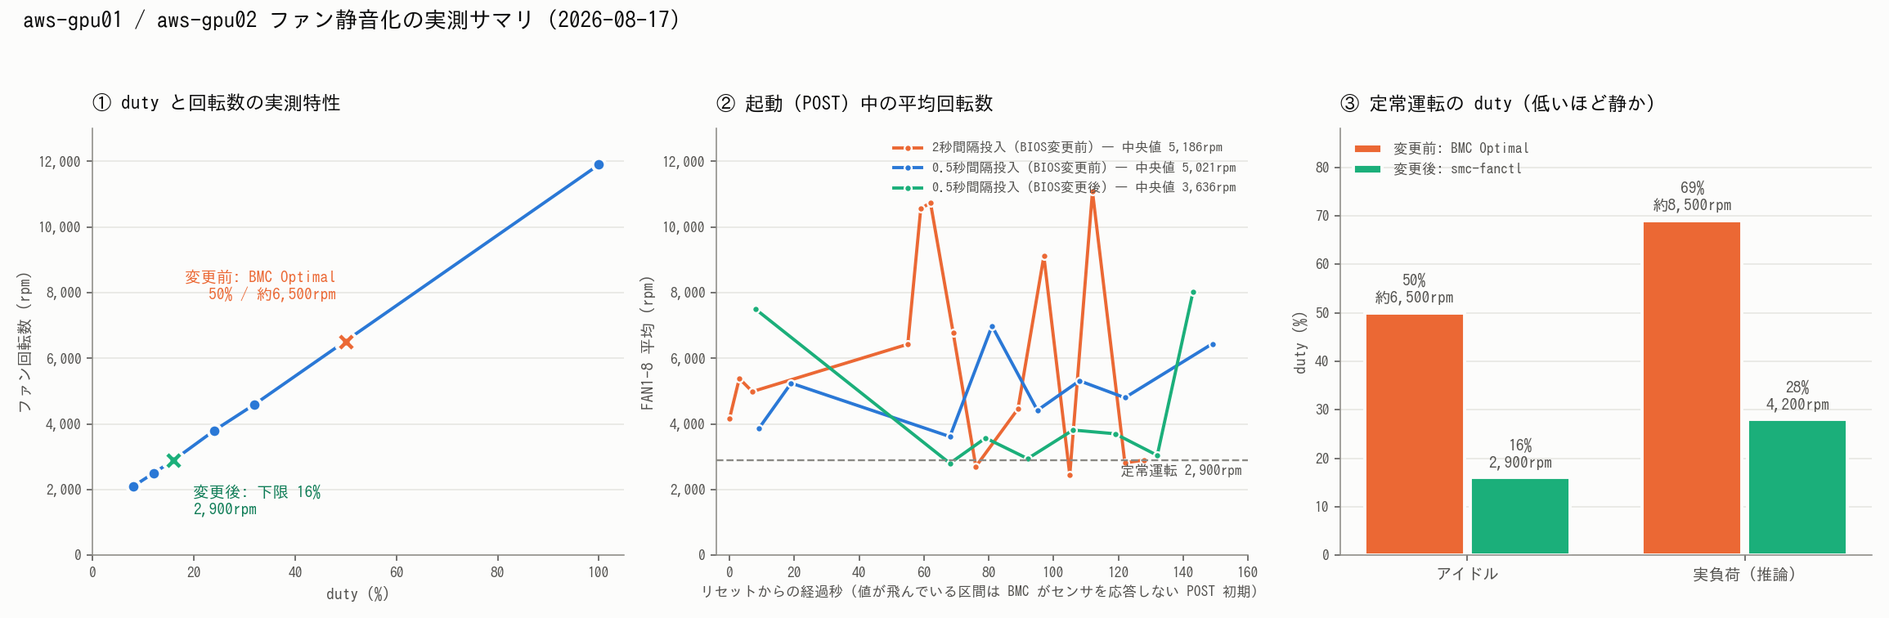
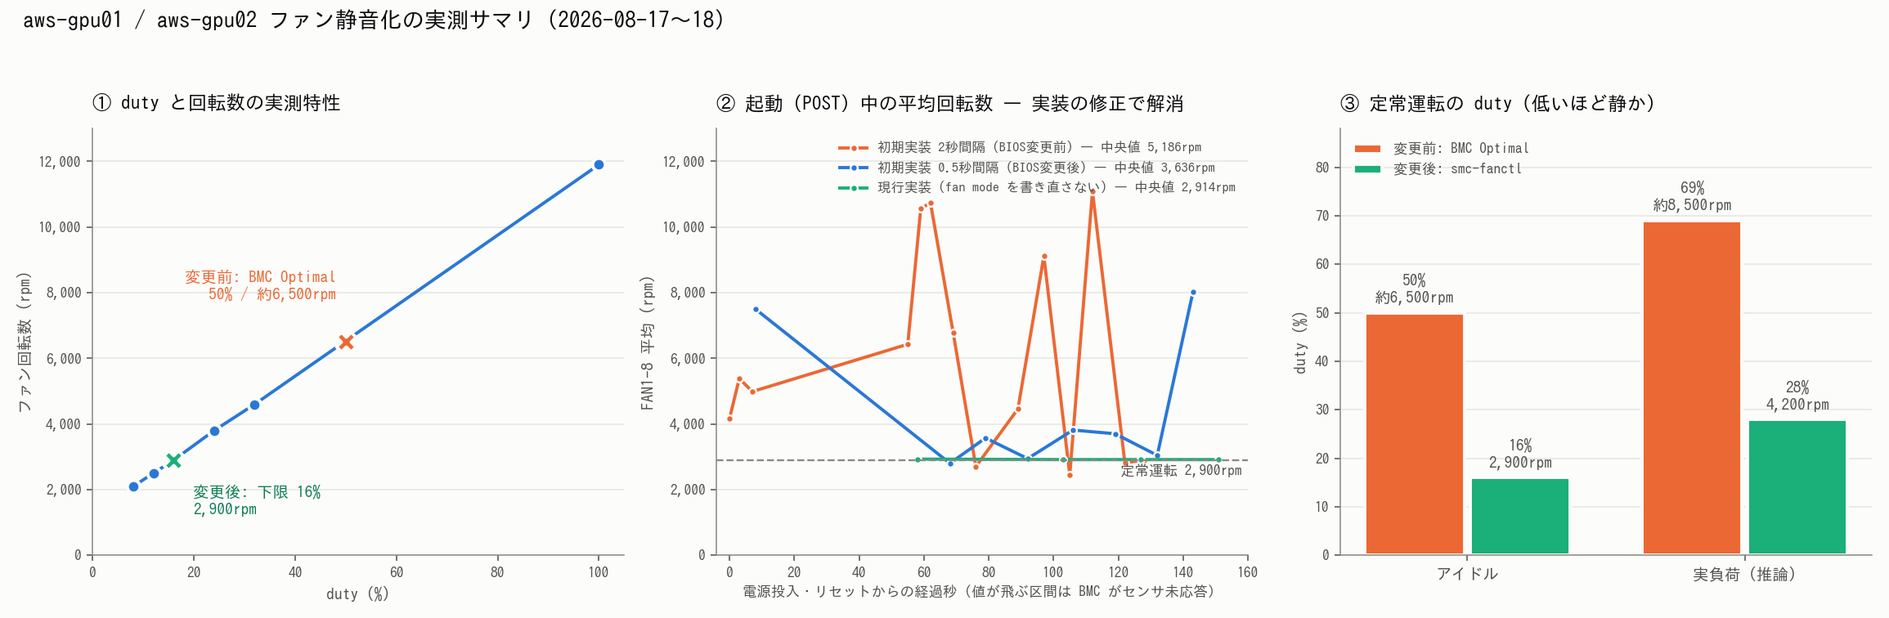
fix(report): 起動中の抑制は「競り負ける」ではなく実装の誤りだったと訂正
ユーザ立ち会いで両機を ACPI シャットダウン → 電源投入し、修正後の
boot-quiet で起動中の回転を測り直した（2026-08-18 17:23〜17:30）。

結果: POST 中 FAN1-8 平均の中央値は gpu01 2,925rpm / gpu02 2,914rpm。
定常運転と同値で、起動時の爆音は事実上解消した。
ユーザ体感も「数秒だけ唸るが、だいぶ抑制できている」。

これに伴い当初の結論を訂正する:
- 誤: POST 中は BMC がファン制御を手放さないので外部の duty 投入は競り負ける
- 正: BMC は POST 中も duty 指定を受け付ける。fan mode を書き直すと全 zone が
      100% にリセットされるため、毎周期 mode を書いていた初期実装が自ら
      爆音を誘発していた

あわせて記録:
- コールドブートの所要時間 (on 発行起点): gpu01 は OS 起動まで 150 秒 /
  smc-fanctl 稼働まで 160 秒、gpu02 は 85 秒 / 108 秒。gpu02 が短いのは
  スロット OPROM が Disabled だから…と考えられるが、GPU 枚数と RAM 量の差も
  混ざるため OPROM 単独の寄与は未分離
- 100GbE の netplan 永続化が 2 度目の再起動でも機能することを確認
- 残課題の 2 件 (修正後 boot-quiet の測定 / POST 時間) を解決済みに更新
- タイトルを「起動時も含め 6,500→2,900rpm」に変更、PNG に現行実装の系列を追加
- CLAUDE.md / aws-gpu.md / INDEX も最終結果へ追随

ガードは維持する（抑制が働かない状況では従来どおり全開になるため）。

diff --git a/report/attachment/2026-08-17_234403_aws_gpu_fan_noise_reduction/make_summary_png.py b/report/attachment/2026-08-17_234403_aws_gpu_fan_noise_reduction/make_summary_png.py
@@ -74,9 +74,9 @@ ax.set_ylim(0, 13000)
 ax = axes[1]
 XMAX = 160  # OS 起動後（smc-fanctl が引き継いだ後）は比較対象外なので切る
 series = [
-    ("boot_gpu02_suppress.csv", "2秒間隔投入 (BIOS変更前)", ORANGE),
-    ("boot_gpu02_fast.csv", "0.5秒間隔投入 (BIOS変更前)", BLUE),
-    ("boot_gpu02_after_bios.csv", "0.5秒間隔投入 (BIOS変更後)", AQUA),
+    ("boot_gpu02_suppress.csv", "初期実装 2秒間隔 (BIOS変更前)", ORANGE),
+    ("boot_gpu02_after_bios.csv", "初期実装 0.5秒間隔 (BIOS変更後)", BLUE),
+    ("boot_gpu02_final.csv", "現行実装 (fan mode を書き直さない)", AQUA),
 ]
 for path, label, color in series:
     xs, ys = load_boot(path)
@@ -88,9 +88,9 @@ for path, label, color in series:
             label=f"{label} — 中央値 {med:,.0f}rpm")
 ax.axhline(2900, color=MUTED, linewidth=1.2, linestyle="--")
 ax.annotate("定常運転 2,900rpm", (XMAX - 2, 2400), fontsize=9, color=INK2, ha="right")
-ax.set_title("② 起動 (POST) 中の平均回転数", color=INK, fontsize=12,
+ax.set_title("② 起動 (POST) 中の平均回転数 — 実装の修正で解消", color=INK, fontsize=12,
              fontweight="bold", loc="left", pad=12)
-ax.set_xlabel("リセットからの経過秒（値が飛んでいる区間は BMC がセンサを応答しない POST 初期）",
+ax.set_xlabel("電源投入・リセットからの経過秒（値が飛ぶ区間は BMC がセンサ未応答）",
               color=INK2, fontsize=9)
 ax.set_ylabel("FAN1-8 平均 (rpm)", color=INK2, fontsize=10)
 ax.set_xlim(-4, XMAX)
@@ -126,7 +126,7 @@ leg = ax.legend(frameon=False, fontsize=9, loc="upper left")
 for t in leg.get_texts():
     t.set_color(INK2)
 
-fig.suptitle("aws-gpu01 / aws-gpu02 ファン静音化の実測サマリ (2026-08-17)",
+fig.suptitle("aws-gpu01 / aws-gpu02 ファン静音化の実測サマリ (2026-08-17〜18)",
              color=INK, fontsize=14, fontweight="bold", x=0.012, ha="left", y=0.985)
 fig.tight_layout(rect=(0, 0, 1, 0.94))
 out = f"{SCR}/summary.png"

diff --git a/report/INDEX.md b/report/INDEX.md
@@ -231,4 +231,4 @@
 - [x] [2026-08-16_151340_aws_gpu_server_onboarding.md](2026-08-16_151340_aws_gpu_server_onboarding.md) — 新規 GPU サーバ 2 台を管理対象へ追加。BMC/OS 実測で **aws-gpu01 = Supermicro SYS-4028GR-TRT2 (Tesla P100-PCIE 16GB×7 = 112GB / Xeon E5-2687W v4×2 / 157GiB RAM)**、**aws-gpu02 = SYS-4028GR-TRT (16GB×4 + 12GB×2 = 88GB / E5-2640 v4×2 / 94GiB)** と確定。**ユーザ指定の「起動時にファンが爆音」制約を `bmc-power.sh` / `power-ctl.sh` の `FAN_LOUD_SERVERS` ガード (exit 20、`ALLOW_FAN_NOISE=1` で解除) として実装**し、`reset`/`on`/`off`/`soft` が実際に拒否され電源状態・uptime が変化しない (副作用ゼロ) ことまで検証。**既存 3 台との最大の差はネットワーク** — WS と同一拠点で RTT 0.3ms / 約 100MB/s、かつ **HF 直ダウンロード 27〜37MB/s が WS 経由 18MB/s より速い**ため CLAUDE.md の「WS 経由取得」ルールの明示的例外とした。BMC は ASPEED FW 3.86 で **mi25 と違い Redfish も応答する**が運用は IPMI を正とし、KVM スクショは既存 `bmc-kvm.py` の 2D noVNC 経路がそのまま動作 (両機 1024x768 取得成功)。個体差として **aws-gpu01 は GPU0/GPU5 のみ ECC Disabled + PSU 故障 SEL 履歴 (2026-02-23)**、**aws-gpu02 は FAN7 が No Reading**、aws-gpu01 は他ユーザ 2 名との共用機。スコープは「登録＋疎通確認」で llama.cpp ビルド・llama-server 起動・ベンチは未実施 (起動パラメータ `-b 4096 -ub 4096` は t120h-p100 の実績値を踏襲した**未検証の推定値**、aws-gpu02 は VRAM 不均等のため tensor-split 流用不可)
 - [x] [2026-08-16_175749_deepseek_v4_rpc_dual_gpu_server.md](2026-08-16_175749_deepseek_v4_rpc_dual_gpu_server.md) — **aws-gpu01 + aws-gpu02 を llama.cpp の RPC バックエンドで束ね、1 台に収まらない `unsloth/DeepSeek-V4-Flash-0731-GGUF:UD-Q4_K_XL` (155,095,241,120 B = 144.4 GiB) を 13 GPU / 200 GiB に分散して起動**。両機を同一コミット `10bf611e5` (build 10451) で `-DGGML_RPC=ON` 付き再ビルドし、aws-gpu01 をメインホスト (モデル保持)、aws-gpu02 を `ggml-rpc-server` ワーカー (モデル不要) として 100GbE 直結 `192.168.100.1/2` で接続。**ctx=131072 で起動成功** (ロード 4分24秒、VRAM 実測 160,882 MiB = 157.1 GiB、最小空き 1,058 MiB は aws-gpu02 の 12GB カード)。**`--tensor-split` は不要** — 自動配分が VRAM 不均等 (16/16/16/12/16/12 GB) を適切に処理。性能は **pp 89.7 t/s @1,215tok / 81.7 t/s @19,015tok、tg 13.6 / 12.7 t/s** で、**19k トークンでも劣化は約 8%** (t120h-p100 の Qwen3.5-122B が 1k→96k で eval -46.3% だったのと対照的、DeepSeek Sparse Attention の効果)。ctx を 32k→128k にしても VRAM +2.4% / 速度差なし。**事前の最大懸念だった Pascal (sm_60) での新 op (`ggml_lightning_indexer` / `ggml_dsv4_hc_*`) の CPU フォールバックは発生せず** — `lightning-indexer.cu` が `turing_mma_available(cc)` で分岐し非 wmma 経路を持つため CUDA 上で動作 (推論中 load average 0.43)。**2 台間は llama.cpp 本体の RDMA トランスポート (上流 `adb541a6a` / PR #20590, 2026-04-15) が自動選択され RoCEv2 で通信** (`RDMA probed: dev=mlx5_0 gid=3` / `RDMA activated: mtu=4096`)、cmake が `libibverbs` を検出して有効化するためコマンドライン変更不要。**副次: aws-gpu01 の HF ダウンロードは実測 117 MB/s** (155GB を 22分12秒、登録時計測 27MB/s の 4 倍超)。リポジトリ変更として `update_and_build-aws-gpu0*.sh` に `-DGGML_RPC=ON` と `-n/--no-pull` を追加 (RPC はメイン/ワーカーのバージョン一致必須)、`rpc-up.sh` / `rpc-down.sh` を新設 (`0.0.0.0` バインドは拒否 — 公式が RPC を「認証なし・非セキュア」と明記)、SKILL.md に「RPC 分散構成」節・aws-gpu.md に「100GbE 直結リンク」節を追加。**作業上の失敗 3 件も記録**: (a) 同一サーバでビルド二重起動 → 後発の `rm -rf build` が先発を破壊、(b) **`ssh ... & disown` は非対話 bash で起動用シェルが終了せず SSH チャネルがハングする** (`disown` を外せば正常、実測比較表あり)、(c) 完了検出 grep に `abort` を入れたため `common_fit_params` の**警告**を失敗と誤判定し llama-server を二重起動しかけた (2分42秒で kill、稼働中インスタンスは無傷)。残課題は DSpark speculative decoding (draft 10.9GB、+約10GB VRAM)、`-ub` 引き上げ、`start.sh` への RPC 統合、128k 超の上限実測
 - [x] [2026-08-16_221024_deepseek_v4_abliterated_comparison.md](2026-08-16_221024_deepseek_v4_abliterated_comparison.md) — **同じ 13 GPU / 200 GiB の RPC 構成に `huihui-ai/Huihui-DeepSeek-V4-Flash-0731-abliterated-GGUF` の Q4_K (164,633,502,592 B = 153.3 GiB、単一ファイル) を載せ、非 abliterated (unsloth UD-Q4_K_XL 144.4 GiB) と速度・品質の両面で比較**。公平性のため**入れ替え前に同一手順でベースラインを取り直した**。**速度は pp −9.2% (83.45→75.74 t/s @1,187tok) / −7.9% (76.80→70.77 @19,030tok)、tg −2.5% / −3.6%** と低下したが、**abliteration は重みの「値」のみを書き換えテンソルの数・形状・型を変えないため原理的に速度へ影響しえない** — 実体は量子化レシピの差 (モデルが +6.1% 大きい、antirez レシピが head/compressor/indexer を F16 保持)。ただし**サイズ増だけでは説明の向きが合わない** — 帯域律速の tg が予測 −5.8% に対し実測 −2.5〜−3.6% と小さく、compute 律速の pp のほうが強く落ちており、attention 側 F16 保持が prefill に集中して効いた可能性が高い (機構は未検証)。**perplexity は 3.8652±0.0965 → 4.1093±0.1057 で +6.3%** と誤差幅を超えて悪化し、**ビット数を多く使っているのに精度が落ちている**点は示唆的だが、**量子化レシピが異なるため abliteration 由来と量子化由来は分離不能** (ユーザ合意済みの設計上の限界、分離には antirez の非 abliterated 同一レシピ Q4_K が必要)。**回答の正しさは劣化なし** — 計算問題 (双方 1925 個で正解)、コード実装、要約、**30〜40 字ちょうど 4 項目という厳密な書式制約**まで双方が遵守。一方**実用上の軽微な後退あり**: **thinking が全体で +22.6% 冗長化** (40,970→50,215 字、書式制約問題では 2.5 倍。ただし一様ではなく 12 応答中 3 応答は減少、ja1 は半分以下に短縮しつつ正解)、**code2 デバッグ問題で baseline は完答したが abliterated は 2,048 トークン内に本文へ到達できず** (ただし thinking を精査すると診断も修正方針も baseline と同一の正解に達しており、その後の反復ループで思考を切り上げられなかったのが実態 = 推論能力ではなく停止判断の失敗)、文章も単調化 (ja3 の 4 項目の書き出しが baseline 4/4 別表現に対し abliterated は 1/4)。**ctx=131072 のまま起動成功しフォールバック不要**だが VRAM は 161,834→169,514 MiB (165.5 GiB) で**最小空きが 1,058→460 MiB** (aws-gpu02 の 12GB カード) と限界に近い。**副次発見**: (a) **モデルのロードは cold 約 15 分 (baseline 15:02 / abliterated 14:51) / warm 6 分 20 秒**で page cache に強く依存し、**cold 同士では 6.1% 大きい abliterated のほうが 11 秒速い** (サイズよりキャッシュヒット率が支配的) (RAM 157 GiB にモデル 1 本がちょうど載るため A/B 比較は毎回 cold)、(b) **`ssh <server> "pgrep -f 'bin/llama-server'"` はリモート bash 自身にマッチし常に真を返す** (実際に ppl 実行が誤検出で中断、`[b]in/...` 表記で回避)、(c) **`llama-perplexity` は DeepSeek-V4 (MoE + DSA) でも `--rpc` 込みで完走**(26〜27 秒/pass、ただし計算開始まで無出力)、(d) **DeepSeek-V4 は thinking が長く `max_tokens=512` では本文が空になる** (2048 でも 11 問中 5〜6 問が length 打ち切り)、(e) **`ssh "... -m '$MODEL'"` はシングルクォートで `~` が展開されず即死する** (pgrep 自己マッチと合わせ ssh 越しのコマンド構築で 2 回連続で被弾)、(f) **`hf download` のログは 0% のまま完了まで書き換わらない**ため進捗は `du -sb` で見るしかない (一度「停滞」と誤読しかけ、`rx_bytes` 差分で 120 MB/s の受信継続を確認して否定)、(g) **abliterated 版リポジトリには DSpark draft (`dspark-abliterated/` Q8_0 10,896,057,440 B ≒ 10.9 GiB) も揃っており**、前回残課題の投機デコードを**本体・draft ともに ablate 状態を揃えて**試せる (ただし +約 10GB VRAM が要り最小空き 460 MiB では不可)、(h) 同リポジトリは本体 GGUF を 4 種持ち、**`Q4-mxfp4` (155,976,458,848 B = 145.3 GiB) は baseline の 144.4 GiB とほぼ同サイズ**なのでサイズ由来の速度差を消した比較に使える。リポジトリ変更として **`rpc-llama-up.sh` を新設** (RPC 構成の llama-server 起動を初スクリプト化、二重起動検知と `listening on` 待機を内蔵)、**`monitor-hf-download.sh` を新設** (既存 `monitor-download.sh` が `/home/llm/.cache/llama.cpp` 決め打ちで aws-gpu では機能しないため)、`rpc-up.sh` に `RPC_CACHE=1` (`ggml-rpc-server -c`) を追加、SKILL.md に pgrep 自己マッチ・`abort` 誤判定・cold ロードと page cache・**perplexity と llama-server の排他性** (llama-server 側に ppl API は無く `n_probs` は生成トークンの確率しか返さない) を追記
-- [x] [2026-08-17_234403_aws_gpu_fan_noise_reduction.md](2026-08-17_234403_aws_gpu_fan_noise_reduction.md) — **両機のファン騒音を BMC 直接制御で低減** — アイドル **duty 50-54%/6,300-6,800rpm → 16%/2,900rpm**、実負荷でも **16–28%/2,900–4,200rpm** (CPU max 59℃ / GPU max 63℃、thermal slowdown 0 件)。**BMC の Optimal は同じ負荷で duty 68–70% (換算 約8,000–8,500rpm) まで上げており、静音化の余地は起動時よりむしろ定常運転側に大きかった**。X10 の制約を実測で確定: **fan mode = Full(0x01) のときだけ手動 duty が保持される**、**cooling zone は 0–3 の 4 つ**(各 2 ファン、zone0/1 だけ書くと zone2/3 が 100% で残る)、**Full へ切替直後に BMC が全 zone を非同期で 100% に書き戻す**ため 5 秒待って書き、以後も毎周期 duty を照合して自己修復する必要がある。恒久化として温度連動デーモン **`smc-fanctl`** を新設し両機に systemd 常設 (in-band `/dev/ipmi0`、10 秒周期、CPU/GPU/System/PCH を別カーブで評価して最大 duty を採用、3℃ ヒステリシス、下限 16%)。**PCH は 6,500rpm でも 50℃ 前後なので独立カーブが必要**。フェイルセーフ (停止時・mode drift・duty 書き戻しの Optimal 復帰と自己修復) は実機で発火を確認。**起動 (POST) 中は BMC がファン制御を手放さず外部投入は競り負ける** — POST 中 FAN1-8 平均の中央値は 2秒間隔 5,186rpm → 0.5秒間隔 5,021rpm → **0.5秒間隔＋BIOS 変更後 3,636rpm** (投入間隔と BIOS 変更の寄与は未分離)。**BIOS に fan 設定は存在せず** (Advanced 配下・IPMI タブを全確認、`Fast Boot` も無い)、POST 短縮に使えたのは `Wait For "F1" If Error` 無効化と Option ROM 無効化のみ (gpu01 の POST 画面に PXE ROM 初期化が数十秒表示されるのを実測)。**事故と復旧: aws-gpu01 は全スロット OPROM を Disabled にするとブートディスク (SAS HBA 経由) を見失い EFI Shell に落ちる** → `ipmitool chassis bootdev bios` で BIOS を開いて Legacy に戻し復旧 (gpu02 はオンボード SATA ブートなので同変更でも無問題、**Delete 連打も EFI Shell からの `exit` も当てにならず bootdev bios が最も確実**)。副次発見: **aws-gpu02 の POST に `Failing DIMM: P2-DIMME1 (Uncorrectable memory component found)`** (OS は 94GiB 認識で稼働、EDAC/MCE に記録なし → 追跡課題)、**100GbE (192.168.100.x) が netplan 未登録で再起動すると消える** → `60-rpc-100gbe.yaml` で両機永続化し gpu01 の再起動で自動復帰を検証。**爆音ガード (`ALLOW_FAN_NOISE`) は起動時の爆音が消えていないため現状維持**。**追試で `boot-quiet.sh` 自体の設計誤りが判明**: fan mode を毎周期書き直していたためそのたびに BMC の 100% リセットを自分で誘発していた (稼働中機体で FAN1-8 平均 3,088-4,788rpm に振れた → mode 確認のみに修正して 2,900rpm で安定、smc-fanctl 側の書き戻し警告も 2→0 件)。**POST 中の上記数値はすべて修正前の実装で採ったもの**。抑制は `bmc-power.sh` の `on`/`reset`/`cycle` から自動併走させ (pidfile で二重起動抑止、`NO_BOOT_QUIET=1` で無効化)、smc-fanctl の稼働を検知したら自分で終了して制御を引き渡す (実測 68-73 秒)。**実装で踏んだバグ 4 件も記録**: `ipmitool sdr` の値は 2 列目 (最終列は `ok`)、ヒステリシスは「上がる根拠となった一段下の閾値 −3℃」で判定する、mode 切替時に初期値 100% を強制適用しない、PCH は独立カーブが必要 (6,500rpm でも 50℃ 前後)。**運用の失敗 4 件**: `pkill -f '<script>.sh'` は Bash のコマンド全文が自分にマッチして **呼び出し元シェルが死ぬ (exit 144、3 回踏み BIOS 保存が飛んだ)** → pidfile 方式に統一、`systemctl enable --now` は active なサービスに新 unit を反映しない → `restart` が必要、`StartLimitIntervalSec` は `[Service]` でなく `[Unit]`、KVM の BIOS 操作はスクロールでカーソル位置がずれる (VGA Priority を誤って開いた) ため 1 段階ごとにスクショ確認する。**セッション終了前の追跡で 2 件解決**: (a) gpu02 の `Failing DIMM: P2-DIMME1` は**該当スロットが空**だった (実装は `P1_DIMMA1/A2/A3` の 32GB×3 のみ、EDAC の CE/UE も 0 = BIOS が過去の故障情報を表示し続けているだけ)。同時に **gpu02 は CPU2 側にメモリが無く `numactl` の node1 size = 0 MB** と判明 (GPU 3 枚が CPU2 側にぶら下がるため転送が QPI 経由、gpu01 は 32GB×5 で両ノードに存在)。(b) **gpu01 のスロット↔デバイス対応を確定** (SLOT3,4,5,9,10,11,12=P100 / SLOT8=ConnectX-4 / SLOT1=PLX、**ブートディスクの LSI MegaRAID SAS-3 `82:00.0` は SMBIOS のスロット一覧に現れない内部 AOC**) → 次回は **GPU の 7 スロットだけ Disabled にする**のが安全。**副次: ロックは対象サーバの `/tmp/gpu-server-locks/` にあるため再起動で消える** (今回 llama-server 稼働中にロックだけ available に戻っていた → 取り直した)。残課題は gpu01 の Option ROM 再挑戦 (上記 7 スロット限定、再起動待ち)、reset 起点での POST 時間実測、修正後 boot-quiet での POST 回転の再測定、P2-DIMME1 の追跡、GPU 全数 100% 相当の重い負荷での再検証、**`mc reset cold` 後の fan mode 保持の確認 (未実施)**
+- [x] [2026-08-17_234403_aws_gpu_fan_noise_reduction.md](2026-08-17_234403_aws_gpu_fan_noise_reduction.md) — **両機のファン騒音を BMC 直接制御で低減** — アイドル **duty 50-54%/6,300-6,800rpm → 16%/2,900rpm**、実負荷でも **16–28%/2,900–4,200rpm** (CPU max 59℃ / GPU max 63℃、thermal slowdown 0 件)。**BMC の Optimal は同じ負荷で duty 68–70% (換算 約8,000–8,500rpm) まで上げており、静音化の余地は起動時よりむしろ定常運転側に大きかった**。X10 の制約を実測で確定: **fan mode = Full(0x01) のときだけ手動 duty が保持される**、**cooling zone は 0–3 の 4 つ**(各 2 ファン、zone0/1 だけ書くと zone2/3 が 100% で残る)、**Full へ切替直後に BMC が全 zone を非同期で 100% に書き戻す**ため 5 秒待って書き、以後も毎周期 duty を照合して自己修復する必要がある。恒久化として温度連動デーモン **`smc-fanctl`** を新設し両機に systemd 常設 (in-band `/dev/ipmi0`、10 秒周期、CPU/GPU/System/PCH を別カーブで評価して最大 duty を採用、3℃ ヒステリシス、下限 16%)。**PCH は 6,500rpm でも 50℃ 前後なので独立カーブが必要**。フェイルセーフ (停止時・mode drift・duty 書き戻しの Optimal 復帰と自己修復) は実機で発火を確認。**起動 (POST) 中も最終的に 2,900rpm 台で通せた** — 当初は「BMC がファン制御を手放さず競り負ける」と結論したが (POST 中 FAN1-8 平均の中央値 2秒間隔 5,186 → 0.5秒間隔 5,021 → BIOS 変更後 3,636rpm)、**原因は boot-quiet 自身が毎周期 fan mode を書き直して BMC の 100% リセットを誘発していたこと**で、mode を書き直さない実装に直して電源 OFF/ON した最終測定では **gpu01 2,925 / gpu02 2,914rpm** (定常運転と同値、ユーザ体感も「数秒唸るだけ」)。**BMC は POST 中も duty 指定を受け付ける**のが正しい理解。コールドブートの所要時間は gpu01 が OS 起動まで 150 秒 / gpu02 が 85 秒 (gpu02 はスロット OPROM 無効)。**BIOS に fan 設定は存在せず** (Advanced 配下・IPMI タブを全確認、`Fast Boot` も無い)、POST 短縮に使えたのは `Wait For "F1" If Error` 無効化と Option ROM 無効化のみ (gpu01 の POST 画面に PXE ROM 初期化が数十秒表示されるのを実測)。**事故と復旧: aws-gpu01 は全スロット OPROM を Disabled にするとブートディスク (SAS HBA 経由) を見失い EFI Shell に落ちる** → `ipmitool chassis bootdev bios` で BIOS を開いて Legacy に戻し復旧 (gpu02 はオンボード SATA ブートなので同変更でも無問題、**Delete 連打も EFI Shell からの `exit` も当てにならず bootdev bios が最も確実**)。副次発見: **aws-gpu02 の POST に `Failing DIMM: P2-DIMME1 (Uncorrectable memory component found)`** (OS は 94GiB 認識で稼働、EDAC/MCE に記録なし → 追跡課題)、**100GbE (192.168.100.x) が netplan 未登録で再起動すると消える** → `60-rpc-100gbe.yaml` で両機永続化し gpu01 の再起動で自動復帰を検証。**爆音ガード (`ALLOW_FAN_NOISE`) は起動時の爆音が消えていないため現状維持**。**追試で `boot-quiet.sh` 自体の設計誤りが判明**: fan mode を毎周期書き直していたためそのたびに BMC の 100% リセットを自分で誘発していた (稼働中機体で FAN1-8 平均 3,088-4,788rpm に振れた → mode 確認のみに修正して 2,900rpm で安定、smc-fanctl 側の書き戻し警告も 2→0 件)。**POST 中の上記数値はすべて修正前の実装で採ったもの**。抑制は `bmc-power.sh` の `on`/`reset`/`cycle` から自動併走させ (pidfile で二重起動抑止、`NO_BOOT_QUIET=1` で無効化)、smc-fanctl の稼働を検知したら自分で終了して制御を引き渡す (実測 68-73 秒)。**実装で踏んだバグ 4 件も記録**: `ipmitool sdr` の値は 2 列目 (最終列は `ok`)、ヒステリシスは「上がる根拠となった一段下の閾値 −3℃」で判定する、mode 切替時に初期値 100% を強制適用しない、PCH は独立カーブが必要 (6,500rpm でも 50℃ 前後)。**運用の失敗 4 件**: `pkill -f '<script>.sh'` は Bash のコマンド全文が自分にマッチして **呼び出し元シェルが死ぬ (exit 144、3 回踏み BIOS 保存が飛んだ)** → pidfile 方式に統一、`systemctl enable --now` は active なサービスに新 unit を反映しない → `restart` が必要、`StartLimitIntervalSec` は `[Service]` でなく `[Unit]`、KVM の BIOS 操作はスクロールでカーソル位置がずれる (VGA Priority を誤って開いた) ため 1 段階ごとにスクショ確認する。**セッション終了前の追跡で 2 件解決**: (a) gpu02 の `Failing DIMM: P2-DIMME1` は**該当スロットが空**だった (実装は `P1_DIMMA1/A2/A3` の 32GB×3 のみ、EDAC の CE/UE も 0 = BIOS が過去の故障情報を表示し続けているだけ)。同時に **gpu02 は CPU2 側にメモリが無く `numactl` の node1 size = 0 MB** と判明 (GPU 3 枚が CPU2 側にぶら下がるため転送が QPI 経由、gpu01 は 32GB×5 で両ノードに存在)。(b) **gpu01 のスロット↔デバイス対応を確定** (SLOT3,4,5,9,10,11,12=P100 / SLOT8=ConnectX-4 / SLOT1=PLX、**ブートディスクの LSI MegaRAID SAS-3 `82:00.0` は SMBIOS のスロット一覧に現れない内部 AOC**) → 次回は **GPU の 7 スロットだけ Disabled にする**のが安全。**副次: ロックは対象サーバの `/tmp/gpu-server-locks/` にあるため再起動で消える** (今回 llama-server 稼働中にロックだけ available に戻っていた → 取り直した)。残課題は gpu01 の Option ROM 再挑戦 (上記 7 スロット限定、再起動待ち)、reset 起点での POST 時間実測、修正後 boot-quiet での POST 回転の再測定、P2-DIMME1 の追跡、GPU 全数 100% 相当の重い負荷での再検証、**`mc reset cold` 後の fan mode 保持の確認 (未実施)**

diff --git a/.claude/skills/gpu-server/aws-gpu.md b/.claude/skills/gpu-server/aws-gpu.md
@@ -285,18 +285,25 @@ ipmitool -I lanplus -H "$BMC_AWS_GPU01_HOST" -U "$BMC_AWS_GPU01_USER" -P "$BMC_A
 ssh aws-gpu01 "sudo systemctl stop smc-fanctl; sudo ipmitool -I open raw 0x30 0x45 0x01 0x02"
 ```
 
-### 起動（POST）中の爆音 — 完全には消せない
+### 起動（POST）中の爆音 — ほぼ解消済み
 
-電源投入から OS 起動までは BMC が全ファンを 100%（11900rpm）で回す。BMC は POST 中も IPMI を
-受け付けるが、**ファン制御を手放さず duty を 100% に書き戻し続けるため、外部からの投入は
-競り負ける**（2026-08-17 実測）。抑制と記録を行うのが
-[scripts/boot-quiet.sh](./scripts/boot-quiet.sh)。
+対策なしでは電源投入から OS 起動まで BMC が全ファンを 100%（11900rpm）で回す。
+[scripts/boot-quiet.sh](./scripts/boot-quiet.sh) が電源投入と同時に低 duty を投げ続けることで、
+**起動中も定常運転と同じ 2,900rpm 台で通せる**（2026-08-18 のコールドブートで実測）。
 
 | 条件 | POST 中 FAN1-8 平均の中央値 |
 |---|---|
-| 2 秒間隔投入・BIOS 変更前 | 5,186 rpm |
-| 0.5 秒間隔投入・BIOS 変更前 | 5,021 rpm |
-| **0.5 秒間隔投入・BIOS 変更後** | **3,636 rpm** |
+| 2 秒間隔投入・BIOS 変更前（初期実装） | 5,186 rpm |
+| 0.5 秒間隔投入・BIOS 変更前（初期実装） | 5,021 rpm |
+| 0.5 秒間隔投入・BIOS 変更後（初期実装） | 3,636 rpm |
+| **現行実装（fan mode を書き直さない）** | **gpu01 2,925 / gpu02 2,914 rpm** |
+
+初期実装が遅かったのは BMC のせいではなく、**毎周期 fan mode を書き直して 100% リセットを
+自ら誘発していた**ため（下記「fan mode は書き直さない設計」）。BMC は POST 中も duty 指定を
+受け付ける。
+
+**コールドブートの所要時間**（`on` 発行から、2026-08-18 実測）: aws-gpu01 は OS 起動まで 150 秒 /
+smc-fanctl 稼働まで 160 秒、aws-gpu02 は **85 秒 / 108 秒**（gpu02 はスロット OPROM が Disabled）。
 
 **`bmc-power.sh` が自動で併走させる**（2026-08-17 追加）。`on` / `reset` / `cycle` を
 aws-gpu01/02 に対して実行すると `boot-quiet.sh` がバックグラウンドで起動し、
@@ -334,8 +341,9 @@ BOOT_QUIET_DUTY=0x18 BOOT_QUIET_SECS=600 ALLOW_FAN_NOISE=1 .../bmc-power.sh aws-
 **起動後は速い**: `smc-fanctl` は OS 起動から **10〜26 秒でサービス開始、14〜44 秒で duty 適用**
 （`After=sysinit.target` の早期起動）。爆音区間は「電源投入〜OS 起動＋十数秒」に限られる。
 
-**爆音が消えたわけではないので、`bmc-power.sh` / `power-ctl.sh` の `ALLOW_FAN_NOISE` ガードは
-維持する。**
+**ガードは維持する**: 起動中の回転は抑えられたが、抑制が効かない状況（`NO_BOOT_QUIET=1`、
+WS からの到達不能、BMC 側の想定外の挙動）では従来どおり爆音になりうるため、
+`bmc-power.sh` / `power-ctl.sh` の `ALLOW_FAN_NOISE` ガードはそのまま残す。
 
 ### BIOS 設定（2026-08-17 に変更した項目）
 

diff --git a/CLAUDE.md b/CLAUDE.md
@@ -52,8 +52,9 @@ Tesla P100 を 7 枚（112GB）/ 6 枚（88GB）搭載。**起動時にファン
 
 **ファン静音化（2026-08-17）**: 両機に温度連動デーモン `smc-fanctl` を常設し、
 BMC の fan mode を **Full 固定 + duty 制御**に切り替えた（**アイドル 6,500→2,900rpm**）。
-デーモンを止めると自動で BMC の Optimal 制御に戻る。**POST 中の爆音は BMC が制御を手放さないため
-消えていないので、電源操作のガードは維持する**。また **aws-gpu01 は BIOS のスロット OPROM を
+デーモンを止めると自動で BMC の Optimal 制御に戻る。**起動 (POST) 中も `bmc-power.sh` が
+`boot-quiet.sh` を自動併走させることで 2,900rpm 台に収まる**（2026-08-18 のコールドブートで実測）。
+ただし抑制が効かない状況では従来どおり爆音になるため、**電源操作のガードは維持する**。また **aws-gpu01 は BIOS のスロット OPROM を
 無効化するとブートディスク（SAS HBA 経由）を見失い起動不能になる**。詳細は
 [gpu-server/aws-gpu.md](.claude/skills/gpu-server/aws-gpu.md) の「ファン制御」「BIOS 設定」節と
 [2026-08-17 静音化レポート](report/2026-08-17_234403_aws_gpu_fan_noise_reduction.md)。
